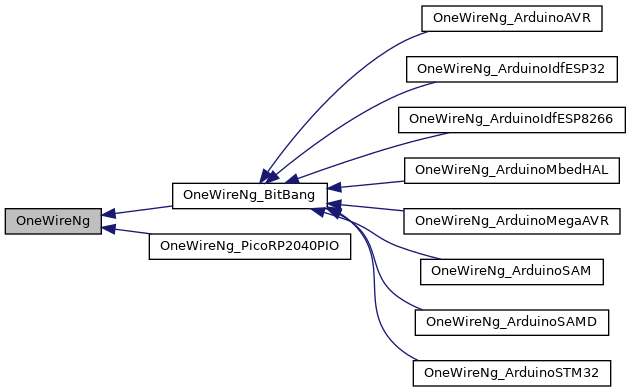
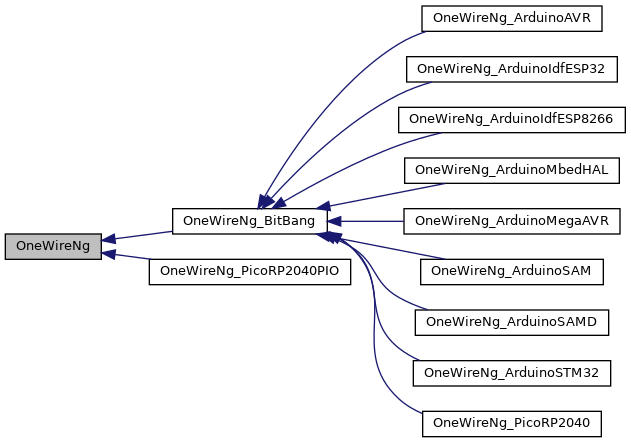
RP2040: new OneWireNg_PicoRP2040 driver. OneWireNg_PicoRP2040PIO set as default.

Changed region(s): [[0.0, 0.0, 0.9937, 1.0]]

diff --git a/src/platform/OneWireNg_PicoRP2040.h b/src/platform/OneWireNg_PicoRP2040.h
@@ -1,0 +1,167 @@
+/*
+ * Copyright (c) 2022 Piotr Stolarz
+ * OneWireNg: Arduino 1-wire service library
+ *
+ * Distributed under the 2-clause BSD License (the License)
+ * see accompanying file LICENSE for details.
+ *
+ * This software is distributed WITHOUT ANY WARRANTY; without even the
+ * implied warranty of MERCHANTABILITY or FITNESS FOR A PARTICULAR PURPOSE.
+ * See the License for more information.
+ */
+
+#ifndef __OWNG_PICO_RP2040__
+#define __OWNG_PICO_RP2040__
+
+#include "OneWireNg_BitBang.h"
+#include "platform/Platform_TimeCritical.h"
+
+#include "hardware/gpio.h"
+
+#ifdef __MBED__
+# define __GPIO_INIT(gpio) _gpio_init(gpio)
+#else
+# define __GPIO_INIT(gpio) gpio_init(gpio)
+#endif
+
+#define __READ_GPIO(bmsk) \
+    ((sio_hw->gpio_in & bmsk) != 0)
+
+#define __WRITE0_GPIO(bmsk) \
+    sio_hw->gpio_clr = bmsk
+
+#define __WRITE1_GPIO(bmsk) \
+    sio_hw->gpio_set = bmsk
+
+#define __WRITE_GPIO(bmsk, st) \
+    if (st) __WRITE1_GPIO(bmsk); \
+    else __WRITE0_GPIO(bmsk)
+
+/**
+ * RP2040's GPIO specific implementation.
+ *
+ * @note The driver uses Pico SDK API. Since the SDK is part of Arduino
+ *     framework, the driver may be used for both of these frameworks.
+ */
+class OneWireNg_PicoRP2040: public OneWireNg_BitBang
+{
+public:
+    /**
+     * OneWireNg 1-wire service for RP2040 platform (GPIO bit-banging).
+     *
+     * Bus powering is supported via switching its GPIO to the high state.
+     * In this case the GPIO servers as a voltage source for connected slaves
+     * working in parasite powering configuration.
+     *
+     * @param pin GPIO pin number used for bit-banging 1-wire bus.
+     * @param pullUp If @c true configure internal pull-up resistor for the bus.
+     */
+    OneWireNg_PicoRP2040(unsigned pin, bool pullUp)
+    {
+        initDtaGpio(pin, pullUp);
+    }
+
+#if CONFIG_PWR_CTRL_ENABLED
+    /**
+     * OneWireNg 1-wire service for RP2040 platform (GPIO bit-banging).
+     *
+     * Bus powering is supported via a switching transistor providing
+     * the power to the bus and controlled by a dedicated GPIO (@see
+     * OneWireNg_BitBang::setupPwrCtrlGpio()). In this configuration the
+     * service mimics the open-drain type of output. The approach may be
+     * feasible if the GPIO is unable to provide sufficient power for
+     * connected slaves working in parasite powering configuration.
+     *
+     * @param pin GPIO pin number used for bit-banging 1-wire bus.
+     * @param pwrCtrlPin GPIO pin number controlling the switching transistor.
+     * @param pullUp If @c true configure internal pull-up resistor for the bus.
+     */
+    OneWireNg_PicoRP2040(unsigned pin, unsigned pwrCtrlPin, bool pullUp)
+    {
+        initDtaGpio(pin, pullUp);
+        initPwrCtrlGpio(pwrCtrlPin);
+    }
+#endif
+
+protected:
+    TIME_CRITICAL int readDtaGpioIn()
+    {
+        return __READ_GPIO(_dtaGpio_bmsk);
+    }
+
+    TIME_CRITICAL void setDtaGpioAsInput()
+    {
+        gpio_set_dir_in_masked(_dtaGpio_bmsk);
+    }
+
+#if CONFIG_PWR_CTRL_ENABLED
+    TIME_CRITICAL void writeGpioOut(int state, GpioType gpio)
+    {
+        if (gpio == GPIO_DTA) {
+            __WRITE_GPIO(_dtaGpio_bmsk, state);
+        } else {
+            __WRITE_GPIO(_pwrCtrlGpio_bmsk, state);
+        }
+    }
+
+    TIME_CRITICAL void setGpioAsOutput(int state, GpioType gpio)
+    {
+        if (gpio == GPIO_DTA) {
+            __WRITE_GPIO(_dtaGpio_bmsk, state);
+            gpio_set_dir_out_masked(_dtaGpio_bmsk);
+        } else {
+            __WRITE_GPIO(_pwrCtrlGpio_bmsk, state);
+            gpio_set_dir_out_masked(_pwrCtrlGpio_bmsk);
+        }
+    }
+#else
+    TIME_CRITICAL void writeGpioOut(int state)
+    {
+        __WRITE_GPIO(_dtaGpio_bmsk, state);
+    }
+
+    TIME_CRITICAL void setGpioAsOutput(int state)
+    {
+        __WRITE_GPIO(_dtaGpio_bmsk, state);
+        gpio_set_dir_out_masked(_dtaGpio_bmsk);
+    }
+#endif /* CONFIG_PWR_CTRL_ENABLED */
+
+    void initDtaGpio(unsigned pin, bool pullUp)
+    {
+        assert(pin < NUM_BANK0_GPIOS);
+        _dtaGpio_bmsk = (1UL << pin);
+
+        __GPIO_INIT(pin);
+
+        if (pullUp) {
+            gpio_set_pulls(pin, true, false);
+        } else {
+            gpio_set_pulls(pin, false, false);
+        }
+        setupDtaGpio();
+    }
+
+#if CONFIG_PWR_CTRL_ENABLED
+    void initPwrCtrlGpio(unsigned pin)
+    {
+        assert(pin < NUM_BANK0_GPIOS);
+        _pwrCtrlGpio_bmsk = (1UL << pin);
+
+        __GPIO_INIT(pin);
+        setupPwrCtrlGpio(true);
+    }
+
+    uint32_t _pwrCtrlGpio_bmsk;
+#endif
+
+    uint32_t _dtaGpio_bmsk;
+};
+
+#undef __WRITE_GPIO
+#undef __WRITE1_GPIO
+#undef __WRITE0_GPIO
+#undef __READ_GPIO
+#undef __GPIO_INIT
+
+#endif /* __OWNG_PICO_RP2040__ */

diff --git a/src/OneWireNg_Config.h b/src/OneWireNg_Config.h
@@ -309,24 +309,26 @@
 # endif
 
 /**
- * RP2040 platform is supported by 2 types of drivers for the Arduino framework:
- * - @ref OneWireNg_ArduinoMbedHAL: bit-banging driver using Mbed OS low level
- *   GPIO API,
- * - @ref OneWireNg_PicoRP2040PIO: driver using RP2040's Programmable I/O (PIO)
- *   peripheral for more efficient handling of 1-wire protocol activities.
+ * RP2040 platform is supported by 2 types of drivers:
+ * - @c OneWireNg_PicoRP2040 bit-banging driver.
+ * - @c OneWireNg_PicoRP2040PIO driver using RP2040's Programmable I/O (PIO)
+ *   peripheral for handling 1-wire protocol activities.
  *
  * Configuring the boolean parameter favors the latter PIO driver over the
  * bit-banging one while choosing the driver inside @c OneWireNg_CurrentPlatform.h
  * header.
  *
  * @note @c OneWireNg_PicoRP2040PIO driver doesn't support power-control-GPIO
- *     configuration (@see CONFIG_PWR_CTRL_ENABLED). Since RP2040 platform is
+ *     configuration (@ref CONFIG_PWR_CTRL_ENABLED). Since RP2040 platform is
  *     able to provide direct voltage source via its GPIO pads, parasitically
- *     powered devices need to powered directly by GPIO controlling the 1-wire
- *     bus, while using this driver.
+ *     powered devices need to be powered directly by GPIO controlling the
+ *     1-wire bus while using this driver.
+ * @note There are observed problems with Pico SDK's serial output
+ *     (USB, UART) while using the bit-banging driver in `TIMING_STRICT`
+ *     mode (@ref CONFIG_BITBANG_TIMING).
  */
 # ifndef CONFIG_RP2040_PIO_DRIVER
-#  define CONFIG_RP2040_PIO_DRIVER 0
+#  define CONFIG_RP2040_PIO_DRIVER 1
 # endif
 
 /**

diff --git a/src/OneWireNg_CurrentPlatform.h b/src/OneWireNg_CurrentPlatform.h
@@ -43,17 +43,17 @@
 #elif defined(ARDUINO_ARCH_STM32)
 # include "platform/OneWireNg_ArduinoSTM32.h"
 # define OneWireNg_CurrentPlatform OneWireNg_ArduinoSTM32
-#elif defined(ARDUINO_ARCH_MBED) || defined(__MBED__)
-# if CONFIG_RP2040_PIO_DRIVER && defined(ARDUINO_ARCH_RP2040)
-#  include "platform/OneWireNg_PicoRP2040PIO.h"
-# define OneWireNg_CurrentPlatform OneWireNg_PicoRP2040PIO
-# else
-#  include "platform/OneWireNg_ArduinoMbedHAL.h"
-#  define OneWireNg_CurrentPlatform OneWireNg_ArduinoMbedHAL
-# endif
 #elif defined(PICO_BUILD) || defined(ARDUINO_ARCH_RP2040)
-# include "platform/OneWireNg_PicoRP2040PIO.h"
-# define OneWireNg_CurrentPlatform OneWireNg_PicoRP2040PIO
+# if CONFIG_RP2040_PIO_DRIVER
+#  include "platform/OneWireNg_PicoRP2040PIO.h"
+#  define OneWireNg_CurrentPlatform OneWireNg_PicoRP2040PIO
+# else
+#  include "platform/OneWireNg_PicoRP2040.h"
+#  define OneWireNg_CurrentPlatform OneWireNg_PicoRP2040
+# endif
+#elif defined(ARDUINO_ARCH_MBED) || defined(__MBED__)
+# include "platform/OneWireNg_ArduinoMbedHAL.h"
+# define OneWireNg_CurrentPlatform OneWireNg_ArduinoMbedHAL
 #else
 # define OneWireNg_CurrentPlatform
 # warning "Can't detect platform. Use proper class for the platform you are compiling for!"

diff --git a/README.md b/README.md
@@ -32,8 +32,8 @@ devices.
   * [`OneWireNg`](#arch_owng)
     * [Memory allocation caveat](#arch_owng_malloc)
   * [`OneWireNg_BitBang`](#arch_bb)
-  * [`OneWireNg_PicoRP2040PIO`](#arch_pio)
   * [`OneWireNg_PLATFORM`](#arch_plat)
+    * [RP2040 drivers](#arch_rp2040)
 * [OneWire compatibility](#ow)
   * [DallasTemperature library](#ow_dallas)
 * [License](#license)
@@ -161,9 +161,6 @@ target_link_libraries(some_project PRIVATE OneWireNg)
 pico_add_extra_outputs(some_project)
 ```
 
-NOTE: Currently only PIO driver (`OneWireNg_PicoRP2040PIO`) is supported for
-Pico SDK environment. See [below](#architecture-details) for more details.
-
 <a name="usage_mbed"></a>
 ### Mbed OS
 
@@ -191,16 +188,19 @@ While added the library shall be configured via Mbed OS native configuration
     * [Reported to be working.](https://github.com/SpenceKonde/megaTinyCore/blob/master/megaavr/extras/LibraryCompatibility.md)
 * Arduino ESP8266/ESP-IDF.
     * Platform class: `OneWireNg_ArduinoIdfESP8266`.
-    * Tested on WemOS D1
+    * Tested on WemOS D1.
 * Arduino/ESP-IDF ESP32 (classic, S, C and H families).
     * Platform class: `OneWireNg_ArduinoIdfESP32`.
-    * Tested on ESP32-WROOM-32, ESP32-S2-WROVER, ESP32-S3-WROOM-1, ESP32-C3-32S-Kit
+    * Tested on ESP32-WROOM-32, ESP32-S2-WROVER, ESP32-S3-WROOM-1, ESP32-C3-32S-Kit.
+* Arduino/Pico SDK RP2040.
+    * Platform classes: `OneWireNg_PicoRP2040`, `OneWireNg_PicoRP2040PIO`.
+    * Tested on Raspberry Pi Pico.
 * Arduino/Mbed OS platforms (incl. RP2040, Nano, Edge, Nicla, Portena).
     * Platform class: `OneWireNg_ArduinoMbedHAL`.
-    * Tested on Raspberry Pi Pico (RP2040) (bit-banging and PIO drivers)
+    * Tested on Raspberry Pi Pico, Nucleo-144 (L552ZE-Q).
 * Arduino STM32.
     * Platform class: `OneWireNg_ArduinoSTM32`.
-    * Tested on Nucleo-144 (L552ZE-Q)
+    * Tested on Nucleo-144 (L552ZE-Q).
 * Arduino SAM.
     * Platform class: `OneWireNg_ArduinoSAM`.
     * [Reported to be working.](https://github.com/pstolarz/OneWireNg/issues/33)
@@ -231,7 +231,7 @@ work on the following platforms and CPU frequencies:
     * ESP32-S3-WROOM-1; 240,160,80MHz (other freqs not tested)
     * ESP32-C3-32S-Kit; 240,160MHz (other freqs not tested)
 * RP2040
-    * Raspberry Pi Pico; 125MHz (bit-banging and PIO drivers)
+    * Raspberry Pi Pico; 50-250MHz (bit-banging and PIO drivers)
 * STM32
     * NUCLEO-L552ZE-Q; 110MHz
 
@@ -307,9 +307,8 @@ configures 1-wire service to work in one of the above modes.
 RP2040 PIO driver (`OneWireNg_PicoRP2040PIO` class) doesn't support
 power-control-GPIO configuration. Since RP2040 platform is able to provide
 direct voltage source via its GPIO pads, parasitically powered devices need
-to be powered directly by GPIO controlling the 1-wire bus, while using this
+to be powered directly by GPIO controlling the 1-wire bus while using this
 driver.
-
 
 **1-wire stability and parasite powering**
 
@@ -425,17 +424,6 @@ on GPIO bit-banging. Object of this class isn't constructed directly rather than
 the class is intended to be inherited by a derived class providing protected
 interface implementation for low level GPIO activities (set mode, read, write).
 
-<a name="arch_pio"></a>
-### `OneWireNg_PicoRP2040PIO`
-
-The class is derived from `OneWireNg` and implements the 1-wire interface
-for RP2040 MCU using Programmable I/O (PIO) peripheral. This is a platform
-driver therefore may be created directly by its public constructor.
-
-NOTE: The RP2040 platform is supported via 2 types of drivers for the Arduino
-framework: bit-banging driver (`OneWireNg_ArduinoMbedHAL` class) and the PIO
-driver. See `CONFIG_RP2040_PIO_DRIVER` configuration parameter for more details.
-
 <a name="arch_plat"></a>
 ### `OneWireNg_PLATFORM`
 
@@ -456,6 +444,19 @@ NOTE: For the convenience there has been provided `OneWireNg_CurrentPlatform.h`
 header which tries to detect platform the compilation is proceeded and:
  * include proper platform class header,
  * assign `OneWireNg_CurrentPlatform` macro-define to the detected platform class.
+
+<a name="arch_rp2040"></a>
+### RP2040 drivers
+
+`OneWireNg_PicoRP2040PIO` is derived from `OneWireNg` and implements the 1-wire
+interface for RP2040 MCU using Programmable I/O (PIO) peripheral. Second type
+of driver supporting RP2040 platform is `OneWireNg_PicoRP2040` bit-banging
+driver. Use `CONFIG_RP2040_PIO_DRIVER` configuration parameter to setup a
+specific driver for the platform.
+
+NOTE: There are observed problems with Pico SDK's serial output (USB,
+UART) while using the bit-banging driver in `TIMING_STRICT` mode (see
+`CONFIG_BITBANG_TIMING`).
 
 <a name="ow"></a>
 ## OneWire compatibility
